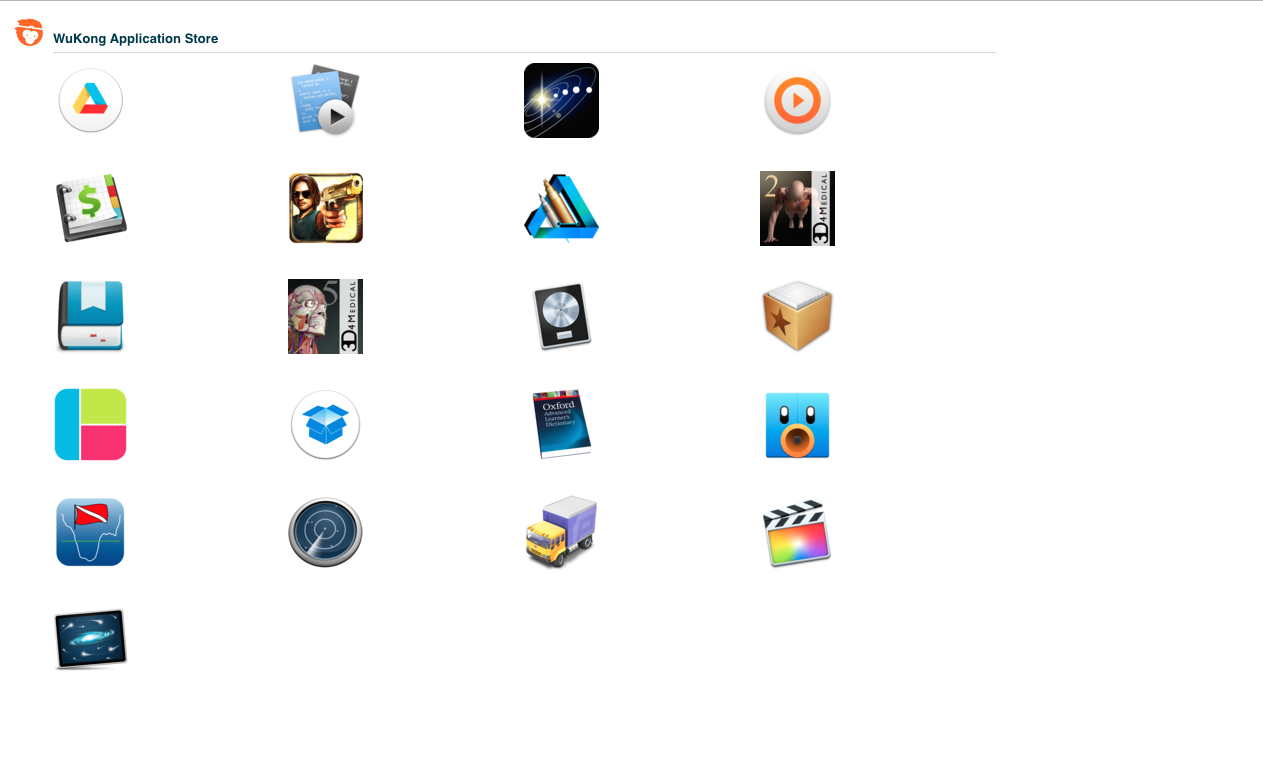
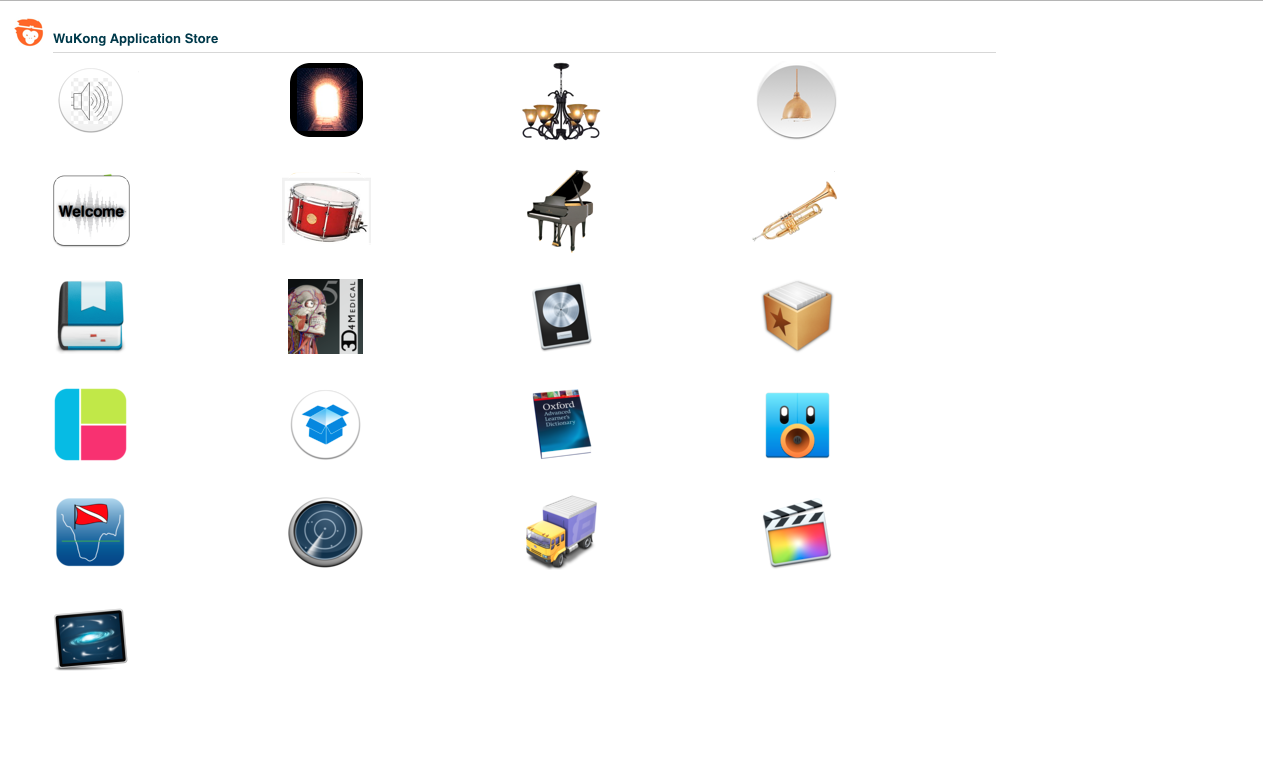
Appstore update and some bugs fixed

diff --git a/wukong/master/static/appstore/index.html b/wukong/master/static/appstore/index.html
@@ -29,17 +29,14 @@
 <div id="application-buttons"></div>
 <script>
 var application_xmls = [
-	{name:'Buzzer',url:'buzzer.xml',by:'Ken',desc:'The top floor'},
-	{name:'Welcome Message',url:'welcome.xml',by:'Ken',desc:'Welcome'},
-	{name:'Front Light',url:'front_light.xml',by:'Ken',desc:'front door light'},
-	{name:'Main Light',url:'main_light.xml',by:'Ken',desc:'main light'},
-	{name:'Kitchen Light',url:'kitchen_light.xml',by:'Ken',desc:'kitchen light'},
-	{name:'Personal Doormat',url:'doormat.xml',by:'Ken',desc:'user identity'},
-	{name:'Drum',url:'Drum.xml',by:'Mary',desc:'piano'},
-	{name:'Piano',url:'Piano.xml',by:'Mary',desc:'drum'},
-	{name:'Trumpet',url:'Trumpet.xml',by:'Mary',desc:'bass'},
-	{name:'User Command',url:'user_command.xml',by:'Mary',desc:'user command'},
-	{name:'Clock',url:'clock.xml',by:'Mary',desc:'time'},
+	{name:'Buzzer',url:'Button to Buzzer.xml',by:'JyunJhe',desc:'for guest'},
+	{name:'Door Light',url:'Light1.xml',by:'JyunJhe',desc:'door light'},
+	{name:'Main Light',url:'Light2.xml',by:'JyunJhe',desc:'living room light'},
+	{name:'Kitchen Light',url:'Light3.xml',by:'JyunJhe',desc:'kitchen light'},
+	{name:'Welcome Sound',url:'MP3.xml',by:'JyunJhe',desc:'welcome'},
+	{name:'Drum',url:'Drum.xml',by:'',desc:'drum'},
+	{name:'Piano',url:'Piano.xml',by:'Mary',desc:'piano'},
+	{name:'Trumpet',url:'Trumpet.xml',by:'Mary',desc:'trumpet'},
 ]
 function appStoreInit(closeStore) {
     /*

diff --git a/src/lib/wkpf/c/posix.galileo/native_wuclasses/wuclass_gesture_mp3_update.c b/src/lib/wkpf/c/posix.galileo/native_wuclasses/wuclass_gesture_mp3_update.c
@@ -53,25 +53,23 @@ void wuclass_gesture_mp3_setup(wuobject_t *wuobject) {
 void wuclass_gesture_mp3_update(wuobject_t *wuobject) {
     static int track = 1;
     static bool pause = false;
-    static bool playing = false;
 
     int16_t comm;
     wkpf_internal_read_property_int16(wuobject, WKPF_PROPERTY_GESTURE_MP3_COMMAND, &comm);
     DEBUG_LOG(DBG_WKPFUPDATE, "WKPFUPDATE(Gesture_MP3): start %d\n", comm);
     if (comm == START) {
+        uint8_t ps;
+        _getPlayState(&ps);
         if (pause) {
             _pause();
             pause = true;
-            playing = true;
-        } else if(!playing){
+        } else if(ps == 2){
             _play(SD, track);
-            playing = true;
             DEBUG_LOG(DBG_WKPFUPDATE, "WKPFUPDATE(Gesture_MP3): playing track: %d\n", track);
         }
     } else if (comm == NEXT) {
         if (track < numf) {
             track++;
-            playing = true;
             pause = false;
             _play(SD, track);
             DEBUG_LOG(DBG_WKPFUPDATE, "WKPFUPDATE(Gesture_MP3): playing track: %d\n", track);
@@ -82,7 +80,6 @@ void wuclass_gesture_mp3_update(wuobject_t *wuobject) {
     } else if (comm == PREVIOUS) {
         if (track > 1) {
             track--;
-            playing = true;
             pause = false;
             _play(SD, track);
             DEBUG_LOG(DBG_WKPFUPDATE, "WKPFUPDATE(Gesture_MP3): playing track: %d\n", track);
@@ -93,15 +90,13 @@ void wuclass_gesture_mp3_update(wuobject_t *wuobject) {
     } else if (comm == PAUSE) {
         _pause();
         pause = true;
-        playing = false;
     } else if (comm == STOP) {
         _stop();
-        playing = false;
         pause = false;
     } else if (comm == RESTART) {
         _stop();
-        playing = true;
         pause = false;
+        track=1;
         _play(SD, track);
         DEBUG_LOG(DBG_WKPFUPDATE, "WKPFUPDATE(Gesture_MP3): playing track: %d\n", track);
     }
